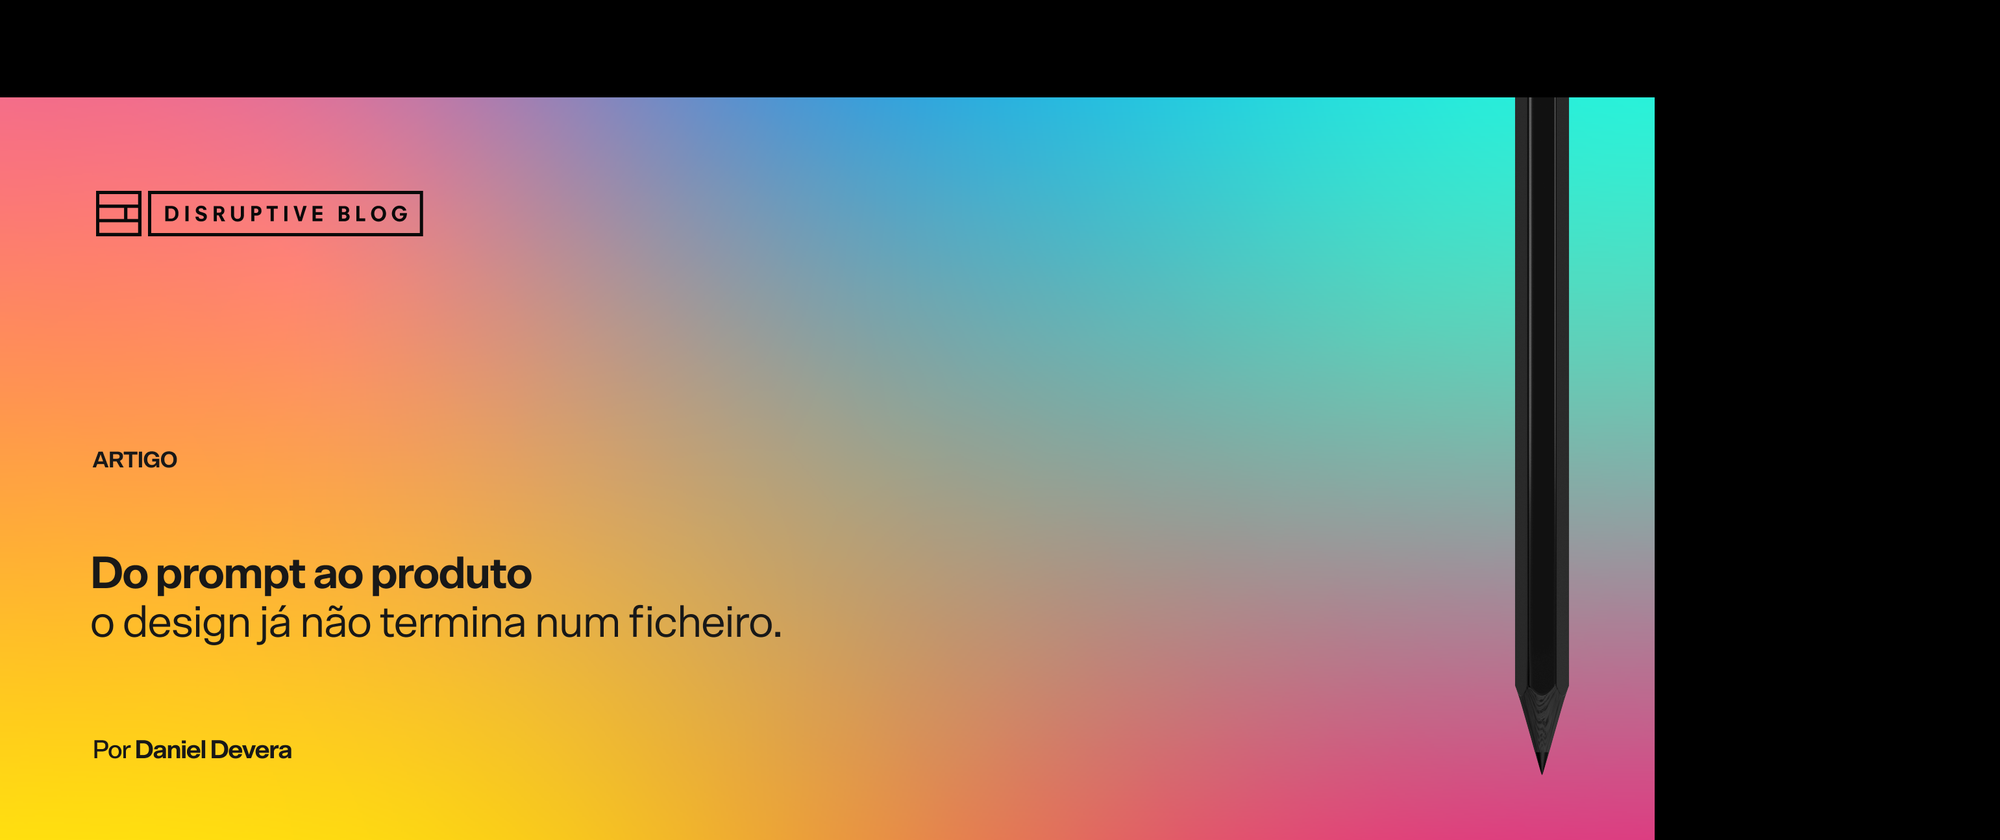
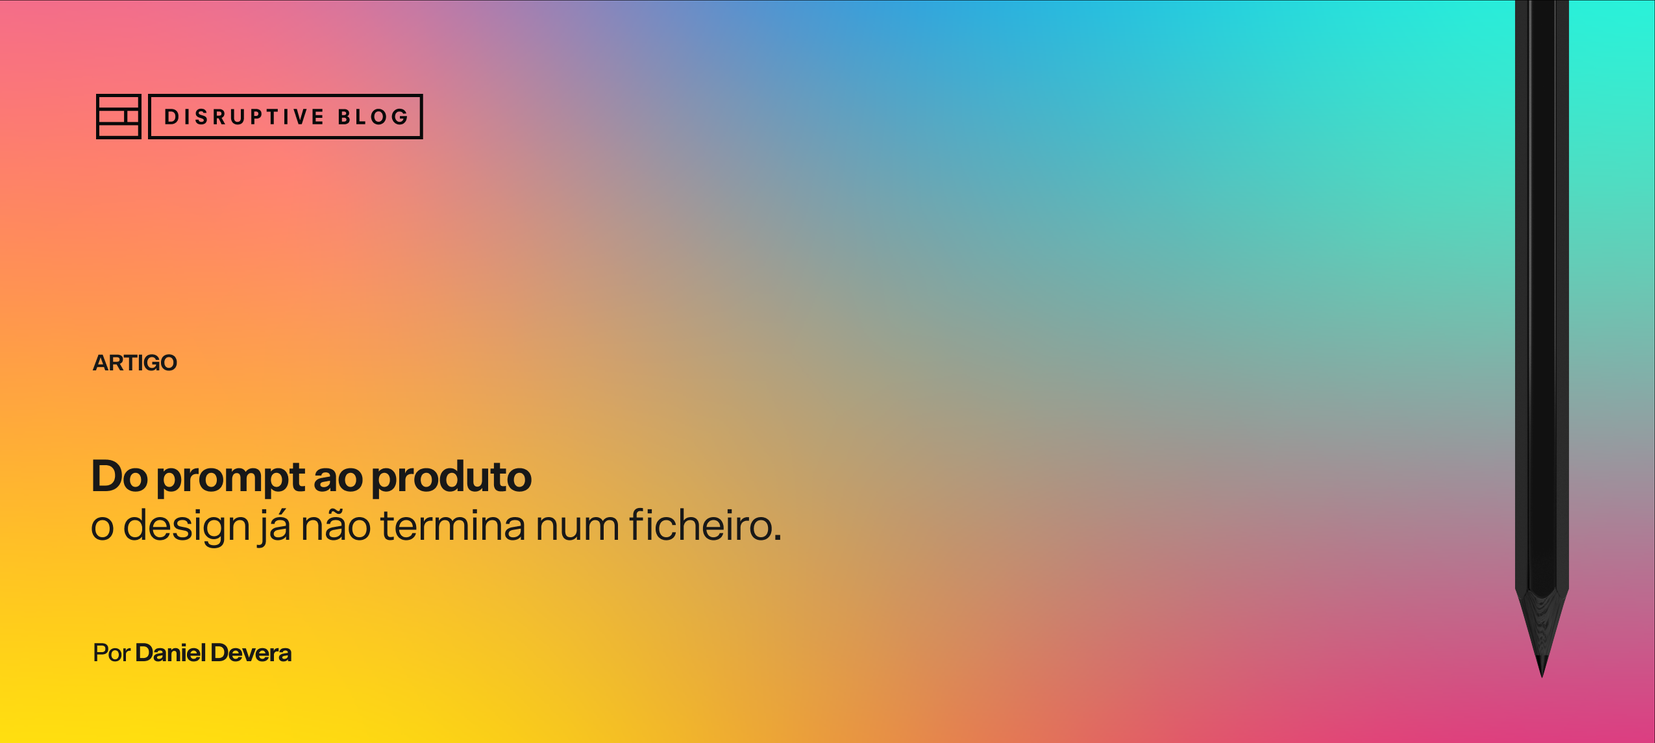
v1.5.594 — Editorial #3 hero: crop black top/right bars off image (pencil kept)

diff --git a/weareedit-site-engine.php b/weareedit-site-engine.php
@@ -3,7 +3,7 @@
  * Plugin Name: * weareedit.io Site Engine
  * Plugin URI:  https://github.com/danieldevera/weareedit-site-engine
  * Description: Custom site engine for weareedit.io — SEO (meta tags, OG, schema.org, sitemap, hreflang), GEO/LLM optimization (llms.txt, AI crawler rules, Wikidata-linked Person/Organization schema), brand customization (hero typography, dot accents, CTA hover animations), Google Reviews aggregation, output-buffer HTML rewrites, virtual pages, WP Rocket cache integration, and one-time data fixes.
- * Version:     1.5.593
+ * Version:     1.5.594
  * Author:      Daniel Devera
  * License:     GPL-2.0+
  * Text Domain: weareedit-site-engine
@@ -13,7 +13,7 @@ if ( ! defined( 'ABSPATH' ) ) {
     exit;
 }
 
-define( 'WEAREDIT_SITE_ENGINE_VERSION', '1.5.593' );
+define( 'WEAREDIT_SITE_ENGINE_VERSION', '1.5.594' );
 
 // Reset PHP opcache after plugin updates so new class bytecode is loaded
 // immediately instead of on the next opcache TTL. Mitigates v1.5.391/392

diff --git a/CHANGELOG.md b/CHANGELOG.md
@@ -1,4 +1,7 @@
 # Changelog
+## v1.5.594 — 2026-06-18 (Editorial #3 hero — crop black top/right bars off the image)
+Cropped the baked-in pure-black margins (97px top, 345px right) off editorial-3-hero.png so the gradient fills the frame; pencil preserved. Image only — no code/placement change (1655x743, ratio 2.227).
+
 ## v1.5.593 — 2026-06-18 (Editorial #3 hero — just place the image, no CSS hacks)
 Removed all hero aspect/cover/inline-style adjustment code. The theme's background-cover .about-image div (which kept cropping the banner) is now replaced with a plain <img> at natural aspect (width:100%, max-width:1000px, height:auto, centered) — the full 2000x840 art shows uncropped, no cover, no aspect-ratio overrides. og:image still pointed at the full 1200x630 share image.
 
